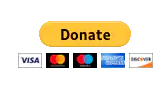
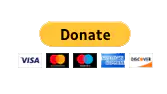
donation to footer, added links to navigation page, fixed schedule text.

diff --git a/snoc_app/src/pages/introduction.js b/snoc_app/src/pages/introduction.js
@@ -2,14 +2,30 @@ import React from "react"
 
 import Layout from "../components/layout"
 import SEO from "../components/seo"
+import styled from "styled-components"
 import { Container, Col, Row } from "reactstrap"
+
+const WelcomeStyle = styled.h1`
+  padding: 20px;
+`
+const Title = styled.h2`
+  margin-bottom: 10px !important;
+  padding: 10px;
+`
+const ParagraphTitle = styled.h3`
+  margin-top: 40px;
+  margin-bottom: 10px;
+`
+
 const Introduction = () => {
   return (
     <Layout>
       <SEO title="Introduction" />
       <Container style={{ marginTop: "120px" }}>
-        <h1 style={{padding: '15px'}}>Welcome!</h1>
-        <h2 style={{textAlign: 'center'}}>SCHOOL OF THE NATURAL ORDER</h2>
+        <WelcomeStyle>Welcome!</WelcomeStyle>
+        <Title style={{ textAlign: "center", marginBottom: "40px" }}>
+          SCHOOL OF THE NATURAL ORDER
+        </Title>
         <p>
           When one is invited upon a journey, it is fair to indicate the route
           that is to be traveled, and the equipment that will be required. To do
@@ -39,7 +55,7 @@ const Introduction = () => {
           with ourselves, develop ourselves, lay hold of that mighty dynamic
           power with which we function, and direct that power. Vitvan
         </p>
-        <h3>Ancient Gnosis</h3>
+        <ParagraphTitle>Ancient Gnosis</ParagraphTitle>
         <p>
           The Ancient Wisdom Teachings present a description of the journey to
           be taken to self-knowledge. These teachings have been given in various
@@ -54,7 +70,7 @@ const Introduction = () => {
           for the new developing schools in the USA. SNO is outstanding among
           them.” (Vitvan)
         </p>
-        <h3>Science</h3>
+        <ParagraphTitle>Science</ParagraphTitle>
         <p>
           Students must have enough of the scientific approach to properly
           understand the Wisdom Teachings and to interpret them and represent
@@ -64,7 +80,7 @@ const Introduction = () => {
           course, on its own level, and in response to the dynamic operations of
           frequencies.
         </p>
-        <h3>Semantic</h3>
+        <ParagraphTitle>Semantic</ParagraphTitle>
         <p>
           SNO students have been given a methodology. We learn that we form
           images from the dynamic operation of frequencies and choose values to

diff --git a/snoc_app/src/pages/schedule.js b/snoc_app/src/pages/schedule.js
@@ -74,7 +74,7 @@ const ClassSchedule = () => {
         </Class>
         <Class>
           <ClassTitle>Sunday Class:</ClassTitle>
-          <ClassSubTitle>Begins on January 31st at 11:30 am MTN.</ClassSubTitle>
+          <ClassSubTitle>Begins on January 31st, 2021 at 11:30AM MTN.</ClassSubTitle>
           <ClassText>
             <strong>"Practice of the Way"</strong> by Vitvan. The class will be
             hosted every Sunday.
@@ -82,7 +82,7 @@ const ClassSchedule = () => {
         </Class>
         <Class>
           <ClassTitle>Sunday Class:</ClassTitle>
-          <ClassSubTitle>Begins on February 7th at 9:30 am MTN.</ClassSubTitle>
+          <ClassSubTitle>Begins on February 7th, 2021 at 9:30AM MTN.</ClassSubTitle>
 
           <ClassText>
             <strong>"Steps in Self-Unfoldment"</strong> by Vitvan. The class
@@ -92,16 +92,17 @@ const ClassSchedule = () => {
         <Class>
           <ClassTitle>Wednesday Class:</ClassTitle>
           <ClassSubTitle>
-            Presented every Wednesday at 7:30 pm MTN.
+            Begins on March 10th, 2021 at 7:30PM MTN. The class will be hosted every other Wednesday.
           </ClassSubTitle>
           <ClassText>
-            <strong>"A Treatise of Faith"</strong> by Vitvan.
+            <strong>"Teacher Manuel"</strong> by Vitvan.
           </ClassText>
+          <ClassText>This class is closed to new participates.</ClassText>
         </Class>
       </ClassWrapper>
       
       <p style={{ margin: "15px" }}>
-        Please visit the contact page to sign up for classes{" "}
+        <strong>Please visit the contact page to sign up for classes!</strong>
       </p>
       <h3>
         <Link to="/contact" className="link">

diff --git a/snoc_app/src/components/footer.js b/snoc_app/src/components/footer.js
@@ -3,7 +3,7 @@ import React from "react"
 // get our fontawesome imports
 import { FontAwesomeIcon } from "@fortawesome/react-fontawesome"
 import { faFacebookF, faYoutube } from "@fortawesome/free-brands-svg-icons"
-import roundImage from "../components/roundImage"
+import SmallImage from "../components/smallImage"
 import RoundImage from "../components/roundImage"
 import SmallRoundImage from "./smallRoundImage"
 
@@ -13,6 +13,7 @@ const Footer = () => (
     <p className="text-center"> Follow us on Social Media</p>
     <div className="footer-social-links">
       <ul className="social-links-list">
+      
         <li>
           <a
             href="https://www.facebook.com/School-of-the-Natural-Order-Colorado-499911493409876/"
@@ -43,6 +44,11 @@ const Footer = () => (
             </h6>
           </a>
         </li>
+        <div className="paypal">
+          <a href="https://www.paypal.com/paypalme/SNOofColorado">
+            <SmallImage filename="paypal.png" />
+          </a>
+        </div>
       </ul>
     </div>
     <p className="text-center">

diff --git a/snoc_app/src/components/header.js b/snoc_app/src/components/header.js
@@ -56,16 +56,20 @@ const Header = ({ siteTitle }) => {
               <StyledLink to="/about">About</StyledLink>
             </NavItem>
             <NavItem>
+              <StyledLink to="/introduction">Introduction</StyledLink>
+            </NavItem>
+            <NavItem>
+              <StyledLink to="/journal">CATE Journal</StyledLink>
+            </NavItem>
+            <NavItem>
               <StyledLink to="/schedule">Class Schedule</StyledLink>
             </NavItem>
             <NavItem>
-              <StyledLink to="/media">Media</StyledLink>
+              <StyledLink to="/media">SNOC Media</StyledLink>
             </NavItem>
             <NavItem>
               <StyledLink to="/meditation">Meditation</StyledLink>
             </NavItem>
-              
-            
             <NavItem>
               <StyledLink to="/contact">Contact</StyledLink>
             </NavItem>

diff --git a/snoc_app/src/pages/about.js b/snoc_app/src/pages/about.js
@@ -170,11 +170,7 @@ const AboutPage = () => {
           are also study groups in California and around the country.
         </h6>
         <Members />
-        <div className="paypal">
-          <a href="https://www.paypal.com/paypalme/SNOofColorado">
-            <SmallImage filename="paypal.png" />
-          </a>
-        </div>
+     <br />
         <p>
           Please feel free to donate and support ongoing creative activities of
           the SNOC: Zoom classes, website and "outreach" programs.
